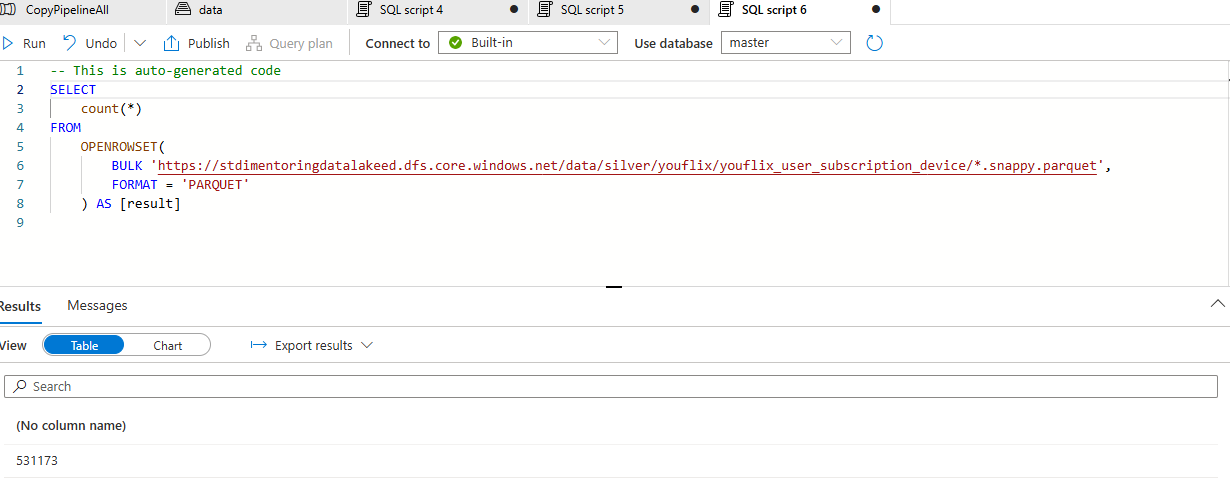
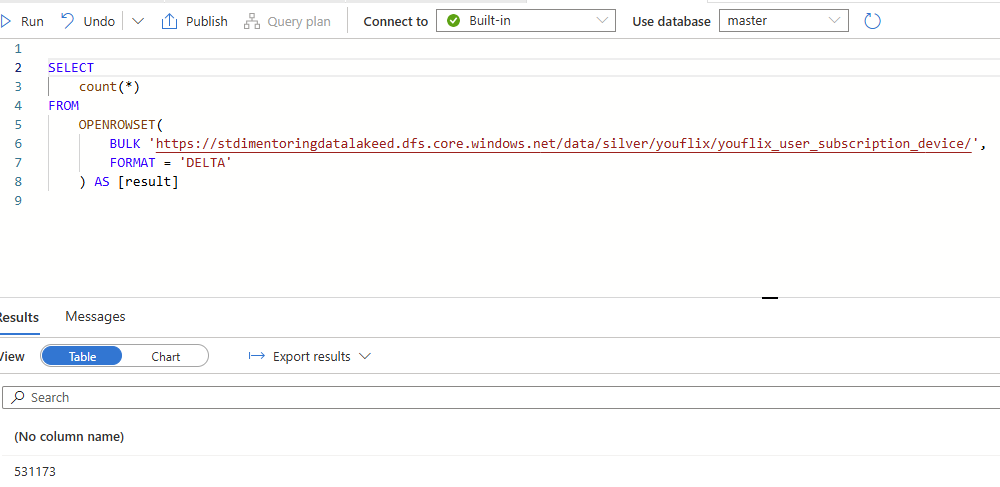
Task 1.3: counts rerun

diff --git a/UseCase1/Subtask3/README.md b/UseCase1/Subtask3/README.md
@@ -20,10 +20,16 @@
 
 8. In Synapse Workspace, navigate to Data section, find in Linked tab your container, open `“silver/youflix”` and
    check number of rows for each delta table using SQL query.
+   - `youflix_device` – 30
+   - `youflix_subscription` – 3
+   - `youflix_user` – 10000
+   - `youflix_user_subscription_device` – 26746
+   
 9. Take screenshot(s) of SQL queries with count values.
    ![](./screenshots/subscription-count-silver.png)
    ![](./screenshots/device-count-silver.png)
    ![](./screenshots/user-subscription-device-sount-silver.png)
+   ![](./screenshots/user-count-silver.png) 
 
 10. Connect to MS SQL Server YouFlix database and run the following command:
     ```sql
@@ -32,9 +38,15 @@
     ![](./screenshots/table-update.png)
 
 11. Execute pipeline from task 1.1 manually and wait until triggered pipeline from 1.2 is finished.
-12. In Synapse Workspace, navigate to Data section, find in Linked tab your container, open “silver/youflix” and
+12. In Synapse Workspace, navigate to Data section, find in Linked tab your container, open `silver/youflix` and
     check number of rows for each delta table using SQL query.
+    - `youflix_device` – 30
+    - `youflix_subscription` – 3
+    - `youflix_user` – 200000
+    - `youflix_user_subscription_device` – 531173
+
 13. Take screenshot(s) of SQL queries with count values.
     ![](./screenshots/user-subscription-device-sount-upd.png)
     ![](./screenshots/device-count-upd.png)
     ![](./screenshots/subscription-count-upd.png)
+    ![](./screenshots/user-count-upd.png)
